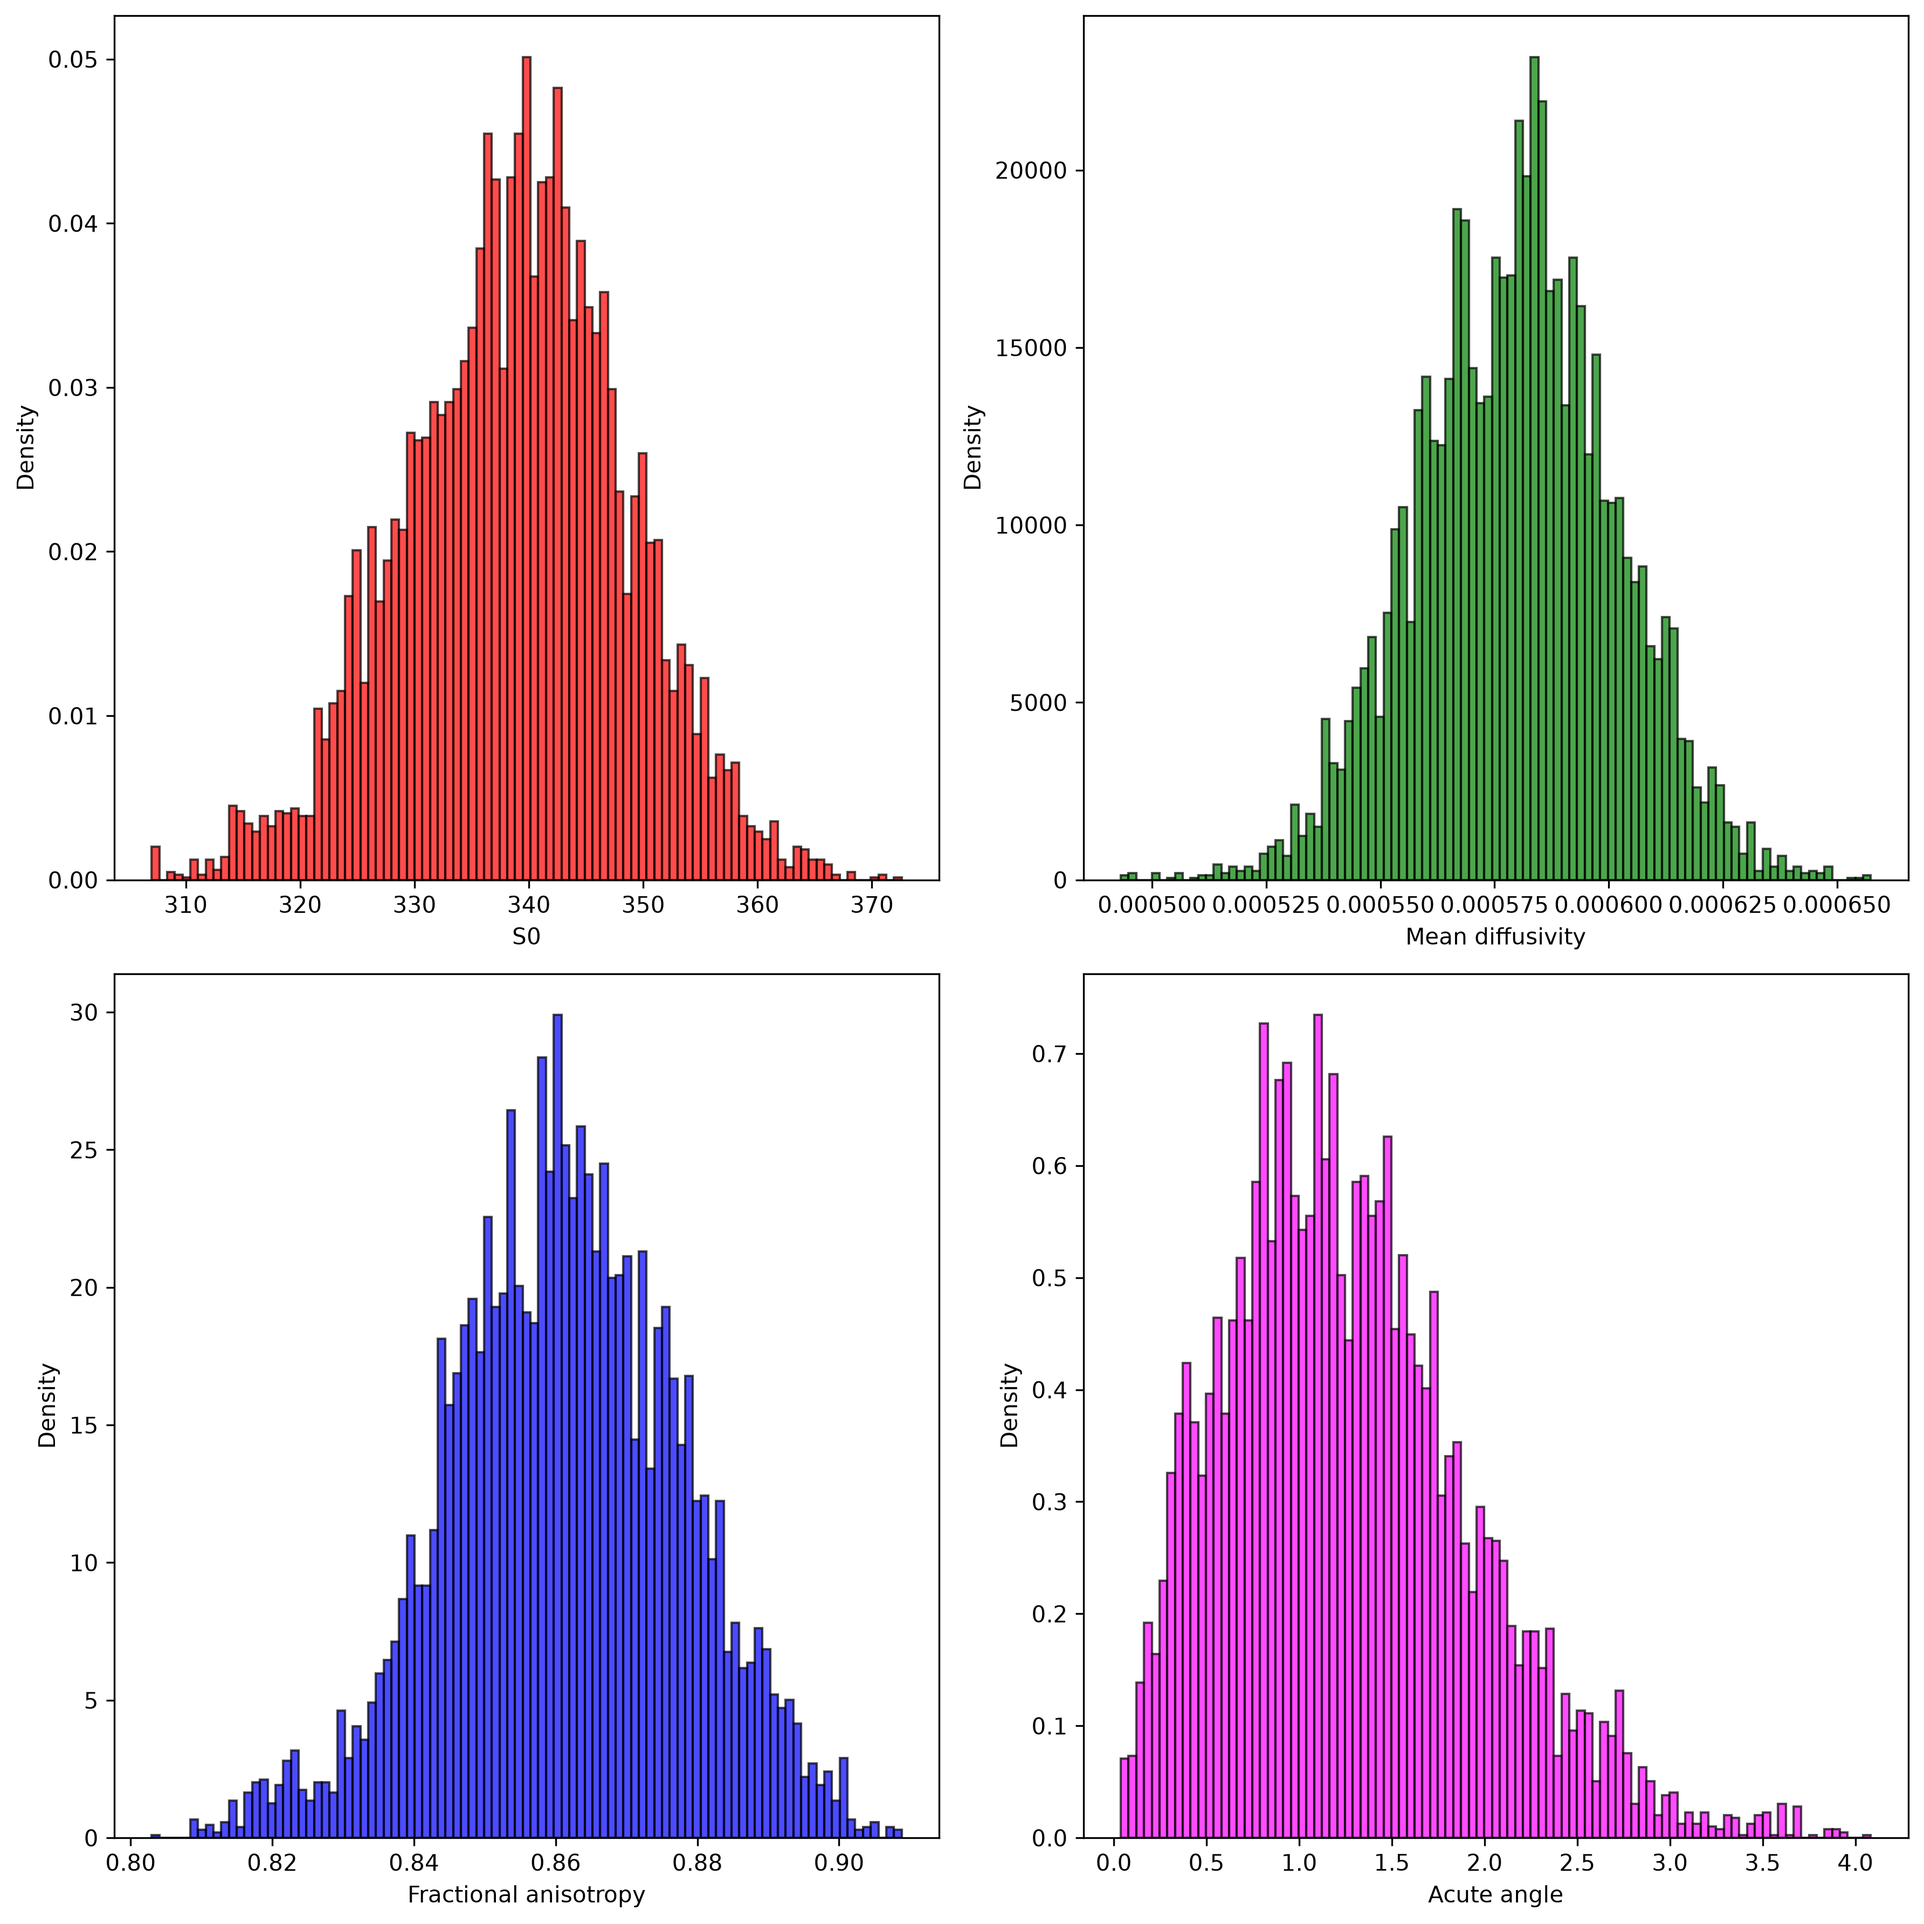
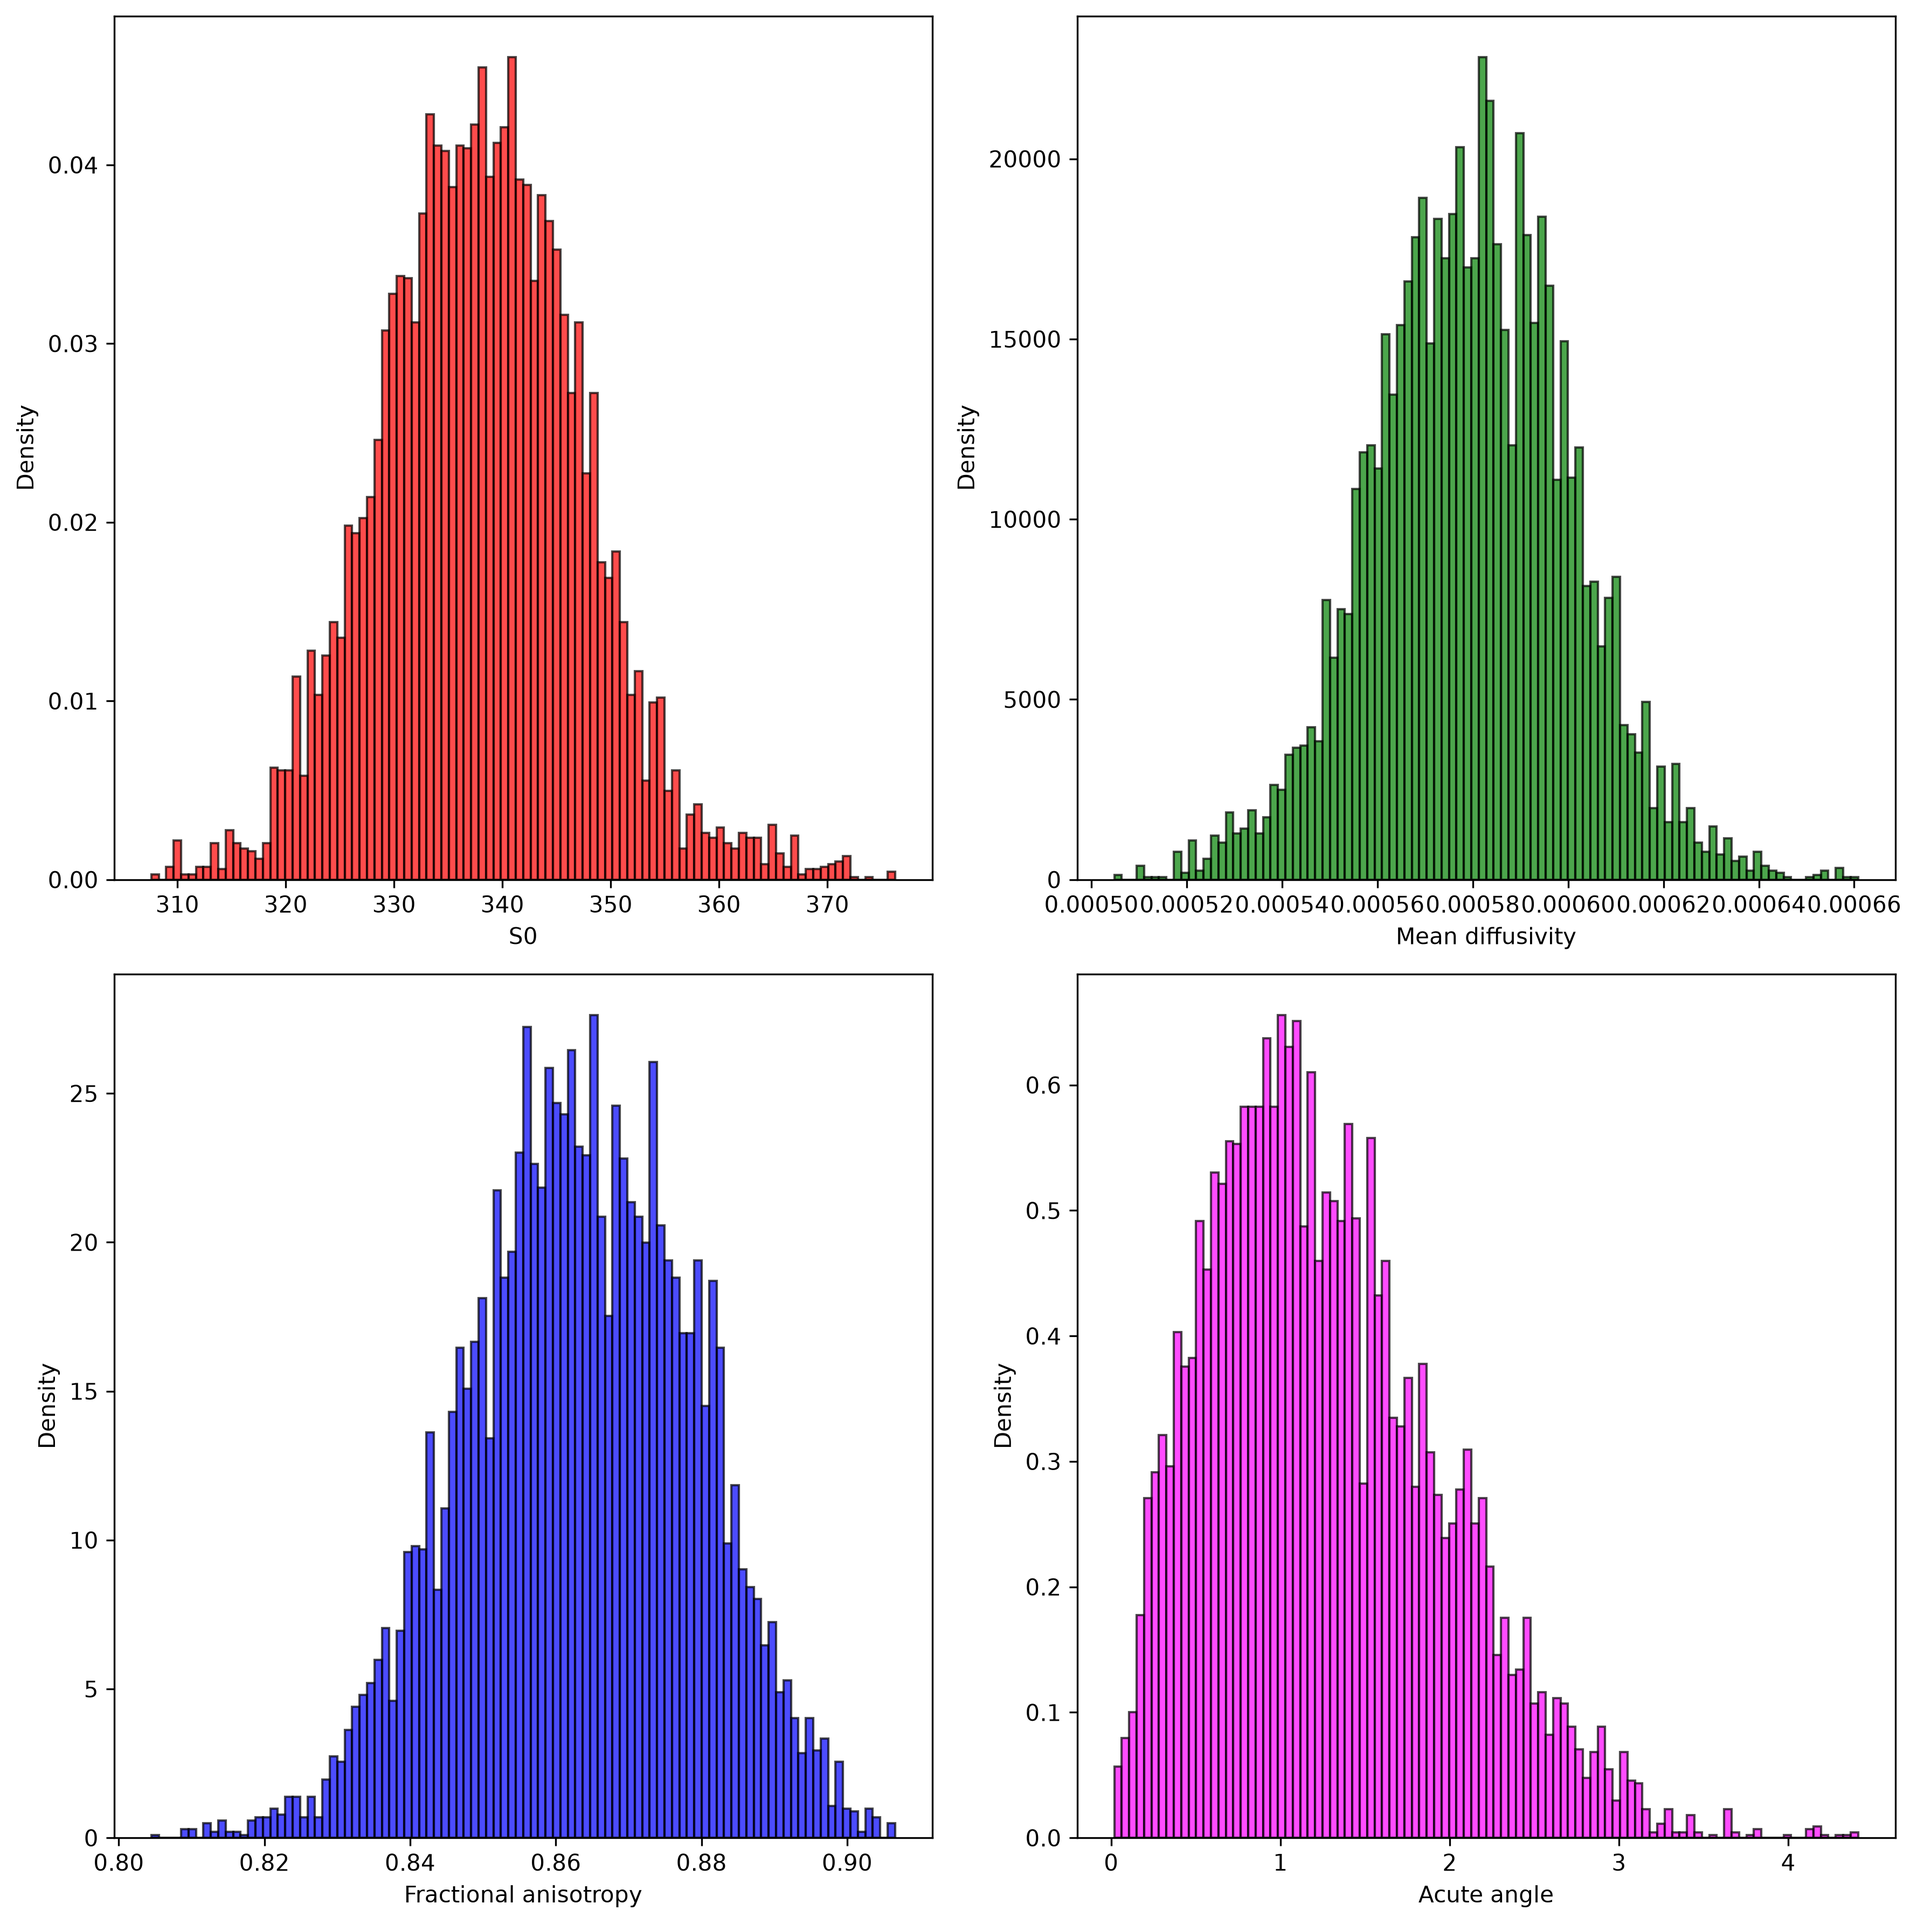
Refactor Metropolis-Hastings log density calculations and adjust burn-in parameter

diff --git a/dmri_project.py b/dmri_project.py
@@ -643,14 +643,7 @@ def metropolis_hastings(y, n_samples, prior, likelihood, gamma_param, nu_param, 
             V=evecs,
         )
 
-        # Convert the eigenvalue/rotation prior density to a density over D
-        log_jacobian = (
-                np.log(evals[1] - evals[0])
-                + np.log(evals[2] - evals[0])
-                + np.log(evals[2] - evals[1])
-        )
-
-        return log_likelihood + log_prior - log_jacobian
+        return log_likelihood + log_prior
 
     def log_proposal(S0_to, D_to, S0_from, D_from):
         return (
@@ -1099,10 +1092,12 @@ def main():
     # Run Metropolis–Hastings and plot results
     gamma_param = 0.01
     nu_param = 2400
-    S0_mh, evals_mh, evecs_mh = metropolis_hastings(y, n_samples, prior, likelihood,
+    burn_in = 500
+
+    S0_mh, evals_mh, evecs_mh = metropolis_hastings(y, n_samples + burn_in, prior, likelihood,
                                                     gamma_param, nu_param,
                                                     S0_init, D_init, plot_traces=False)
-    burn_in = 500
+
     plot_results(S0_mh[burn_in:], evals_mh[burn_in:], evecs_mh[burn_in:, :, :], evec_principal, method="mh")
     credible_intervals(S0_mh[burn_in:], evals_mh[burn_in:], evecs_mh[burn_in:, :, :], evec_principal, method="Metropolis-Hastings")
 
